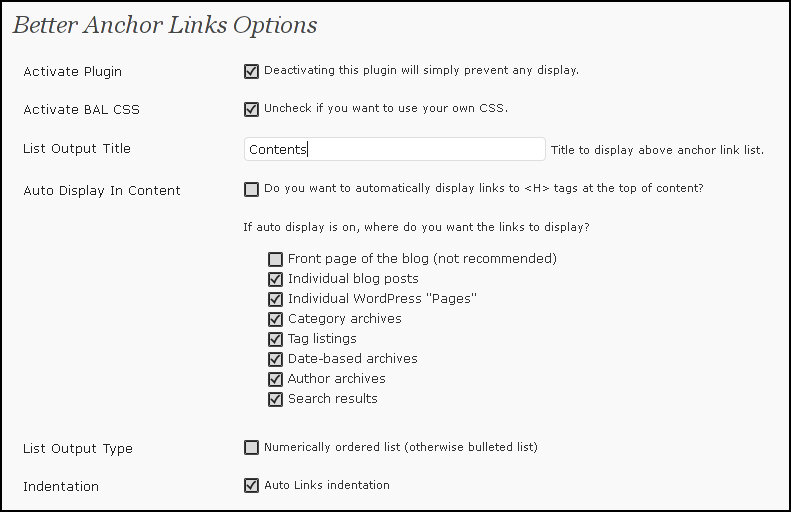
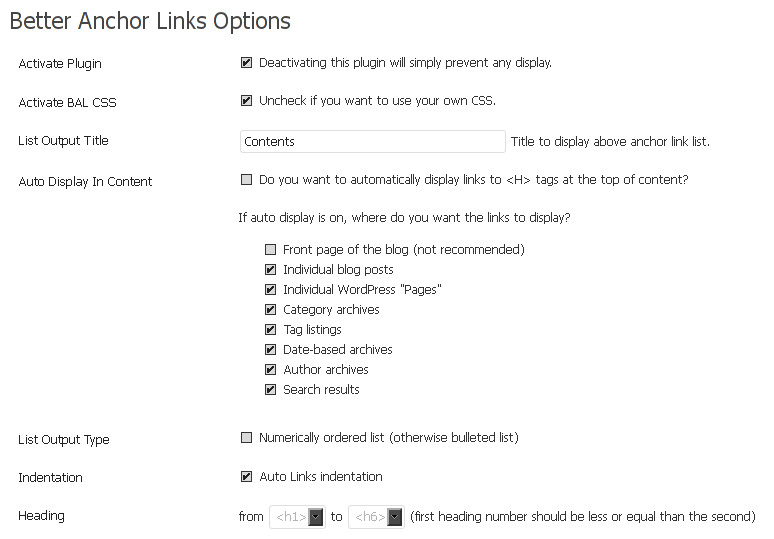
version 1.5.0
git-svn-id: https://plugins.svn.wordpress.org/better-anchor-links/tags/1.5.0@416548 b8457f37-d9ea-0310-8a92-e5e31aec5664

diff --git a/admin/options.php b/admin/options.php
@@ -4,33 +4,34 @@ if(preg_match('#' . basename(__FILE__) . '#', $_SERVER['PHP_SELF'])) { die('You 
 		if ( $_POST['page_options'] )	
 			$options = explode(',', stripslashes($_POST['page_options']));
 		if ($options) {
-			foreach ($options as $option) {
-				$option = trim($option);
-				$value = trim($_POST[$option]);
-				$mwm_aalLoader->options[$option] = $value;
-			}
+			if ($_POST['is_headHi']<=$_POST['is_headLo']) {
+				foreach ($options as $option) {
+					$option = trim($option);
+					$value = trim($_POST[$option]);
+					$mwm_aalLoader->options[$option] = $value;
+				}
 		
-			// Save options
-			//print_r ($mwm_aalLoader->options);
-			update_option('lm_bal_options', $mwm_aalLoader->options);
-			$mwm_aalLoader->show_message(__('Updated Successfully','mwmall'));
+				// Save options
+				//print_r ($mwm_aalLoader->options);
+				update_option('lm_bal_options', $mwm_aalLoader->options);
+				$mwm_aalLoader->show_message(__('Updated Successfully','mwmall'));
 			
+			}else{
+		   		$mwm_aalLoader->show_error(__('Options not saved the first heading number should be less or equal than the second ! ','mwmall'));
+			}
 		}
 
-function headSet($hilo) {
+function headSet($hilo,$numsel) {
 	echo "<select name='$hilo' size=1>";
 	$i=1; 
 	while ($i<7) {
 		echo '<option ';
-		if ($mwm_aalLoader->options["$hilo"] == $i) {
-			echo 'selected="SELECTED" ';
-			$selectedhilo=$i;
+		if ($numsel == $i) {echo 'selected="SELECTED" ';
 		}
 		echo "value=".$i.">&#60;h".$i."&#62;</option>"; 
 		$i++ ;
 	}
 	echo "</select>";
-	return $selectedhilo;
 }
   
 ?>
@@ -41,7 +42,7 @@ function headSet($hilo) {
 	
 	<form name="generaloptions" method="post">
 	<?php wp_nonce_field('ngg_settings') ?>
-	<input type="hidden" name="page_options" value="activatePlugin,activateCSS,autoDisplayInContent,displayTitle,displayPosts,displayPages,contentColumnCount,is_home,is_single,is_page,is_category,is_tag,is_date,is_author,is_search,is_numbering,is_indent" />
+	<input type="hidden" name="page_options" value="activatePlugin,activateCSS,autoDisplayInContent,displayTitle,displayPosts,displayPages,contentColumnCount,is_home,is_single,is_page,is_category,is_tag,is_date,is_author,is_search,is_numbering,is_indent,is_headHi,is_headLo" />
 		<table class="form-table">
 			<tr  valign="top">
 				<th scope="row" valign="top" align="left"><?php _e('Activate Plugin','mwmaal') ?></th>
@@ -135,7 +136,10 @@ function headSet($hilo) {
 			<tr  valign="top">
 				<th scope="row" valign="top" align="left"><?php _e('Heading','mwmaal') ?></th>
 				<td>
-			   from <?headSet("is_headHi")?>to<?headSet("is_headLo")?>	
+			   from <?headSet('is_headHi',$mwm_aalLoader->options['is_headHi'])?> to <?headSet('is_headLo',$mwm_aalLoader->options['is_headLo']);
+			   _e(' (first heading number should be less or equal than the second)','mwmaal');
+				?>
+				 
 				</td>
 			</tr> 
 			<!--<tr  valign="top">

diff --git a/auto-anchor-list.php b/auto-anchor-list.php
@@ -4,7 +4,7 @@ Plugin Name: Better Anchor Links
 Plugin URI: http://ludek.org/bal/index.html
 Description: Automatically creates and displays anchor links.
 Author: Luděk Melichar
-Version: 1.4.2
+Version: 1.5.0
 Author URI: http://ludek.org
 */
 
@@ -29,7 +29,7 @@ Foundation, Inc., 51 Franklin St, Fifth Floor, Boston, MA  02110-1301  USA
 if (!class_exists('mwm_aalLoader')) {
 	class mwm_aalLoader{
 		
-		var $version     = '1.4.1';
+		var $version     = '1.5.0';
 		var $options     = '';
 		var $links = array();
 	
@@ -112,6 +112,8 @@ if (!class_exists('mwm_aalLoader')) {
 			$lm_bal_options['is_search'] = true;
 			$lm_bal_options['is_numbering'] = true;
 			$lm_bal_options['is_indent'] = false;
+			$lm_bal_options['is_headHi'] = 1;
+			$lm_bal_options['is_headLo'] = 6;
                                
 			update_option('lm_bal_options', $lm_bal_options);
 			}
